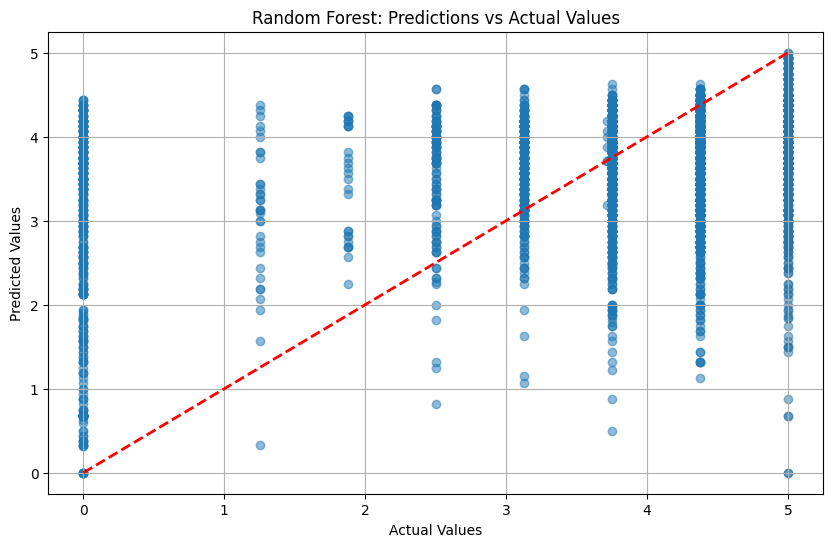
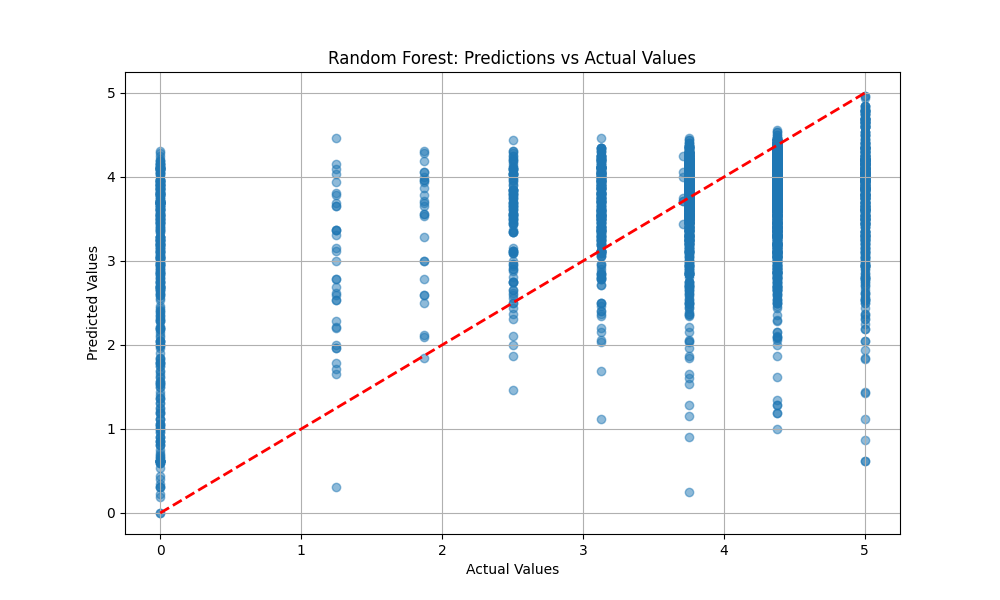
final

diff --git a/recipe_project/vectorization.py b/recipe_project/vectorization.py
@@ -7,10 +7,10 @@ Date: 16/12/2024
 
 # vectorization.py
 
-from transformers import AutoTokenizer, AutoModel
+from transformers import AutoTokenizer, AutoModel, AutoModelForSequenceClassification
 from sklearn.preprocessing import StandardScaler
-from sklearn.model_selection import train_test_split, KFold, cross_val_score
-from sklearn.metrics import mean_squared_error, r2_score, make_scorer
+from sklearn.model_selection import train_test_split, KFold
+from sklearn.metrics import mean_squared_error, r2_score
 from sklearn.linear_model import LinearRegression
 from sklearn.ensemble import RandomForestRegressor
 from sklearn.feature_extraction.text import TfidfVectorizer
@@ -114,6 +114,54 @@ def Word2Vec_vectorization(df: pandas.core.frame.DataFrame):
     return W2V_vectors
 
 
+def roberta_vectorization(device: torch.device, df: pandas.core.frame.DataFrame):
+    """Creates the BERT vectors needed for the Regression models.
+
+    Args:
+        device (torch.device): Device where the model will be runned.
+        df (pandas.core.frame.DataFrame): Dataframe to be analyzed.
+
+    Returns:
+        numpy.ndarray: Final vectors te be used in the regression models.
+    """
+    batch_size = 32
+
+    # Load tokenizer and model
+    tokenizer = AutoTokenizer.from_pretrained("distilbert-base-uncased")
+    model = AutoModelForSequenceClassification.from_pretrained(
+        "distilbert-base-uncased", num_labels=1
+    )
+    model = model.to(device)
+
+    robert_vectors = []  # Initialize predictions list
+
+    # Process in batches
+    for i in range(0, len(df), batch_size):
+        batch_texts = df["directions_pre"].iloc[i : i + batch_size].tolist()
+        inputs = tokenizer(
+            batch_texts,
+            padding=True,
+            truncation=True,
+            max_length=512,
+            return_tensors="pt",
+        )
+
+        # Move inputs to device
+        inputs = {k: v.to(device) for k, v in inputs.items()}
+
+        with torch.no_grad():
+            outputs = model(**inputs)
+            # Get regression predictions
+            batch_predictions = outputs.logits.squeeze().cpu().numpy()
+            robert_vectors.extend(batch_predictions)
+
+    # Convert to numpy array if needed
+    robert_vectors = np.array(robert_vectors)
+    print(f"Created BERT vectors with shape: {robert_vectors.shape}")
+
+    return robert_vectors.reshape(-1, 1)
+
+
 def NeuralNetwork(vectors, df: pandas.core.frame.DataFrame):
     """Creates the Neural network and visualized the result. Also creates a linear
     regression and random forest model and visualizes it. Includes cross-validation
@@ -131,14 +179,14 @@ def NeuralNetwork(vectors, df: pandas.core.frame.DataFrame):
     print("\n=== Cross-validation Evaluation ===")
     k_folds = 5
     kf = KFold(n_splits=k_folds, shuffle=True, random_state=42)
-    
+
     nn_cv_scores = []
     lr_cv_scores = []
     rf_cv_scores = []
 
     for fold, (train_idx, val_idx) in enumerate(kf.split(features_scaled)):
         print(f"\nFold {fold + 1}/{k_folds}")
-        
+
         # Split data for this fold
         X_train_cv = features_scaled[train_idx]
         X_val_cv = features_scaled[val_idx]
@@ -170,8 +218,8 @@ def NeuralNetwork(vectors, df: pandas.core.frame.DataFrame):
         for epoch in range(100):
             model_cv.train()
             for i in range(0, len(X_train_t_cv), 32):
-                batch_X = X_train_t_cv[i:i + 32]
-                batch_y = y_train_t_cv[i:i + 32]
+                batch_X = X_train_t_cv[i : i + 32]
+                batch_y = y_train_t_cv[i : i + 32]
 
                 outputs = model_cv(batch_X)
                 loss = criterion(outputs, batch_y)
@@ -206,16 +254,22 @@ def NeuralNetwork(vectors, df: pandas.core.frame.DataFrame):
 
     # Print cross-validation results
     print("\nCross-validation Results (mean ± std):")
-    print(f"Neural Network R²: {np.mean(nn_cv_scores):.4f} ± {np.std(nn_cv_scores):.4f}")
-    print(f"Linear Regression R²: {np.mean(lr_cv_scores):.4f} ± {np.std(lr_cv_scores):.4f}")
+    print(
+        f"Neural Network R²: {np.mean(nn_cv_scores):.4f} ± {np.std(nn_cv_scores):.4f}"
+    )
+    print(
+        f"Linear Regression R²: {np.mean(lr_cv_scores):.4f} ± {np.std(lr_cv_scores):.4f}"
+    )
     print(f"Random Forest R²: {np.mean(rf_cv_scores):.4f} ± {np.std(rf_cv_scores):.4f}")
 
     # Visualize cross-validation results
     plt.figure(figsize=(10, 6))
-    plt.boxplot([nn_cv_scores, lr_cv_scores, rf_cv_scores], 
-                labels=['Neural Network', 'Linear Regression', 'Random Forest'])
-    plt.title('Cross-validation R² Scores Across Models')
-    plt.ylabel('R² Score')
+    plt.boxplot(
+        [nn_cv_scores, lr_cv_scores, rf_cv_scores],
+        labels=["Neural Network", "Linear Regression", "Random Forest"],
+    )
+    plt.title("Cross-validation R² Scores Across Models")
+    plt.ylabel("R² Score")
     plt.grid(True)
     plt.show()
 
@@ -262,8 +316,8 @@ def NeuralNetwork(vectors, df: pandas.core.frame.DataFrame):
         num_batches = 0
 
         for i in range(0, len(X_train_t), batch_size):
-            batch_X = X_train_t[i:i + batch_size]
-            batch_y = y_train_t[i:i + batch_size]
+            batch_X = X_train_t[i : i + batch_size]
+            batch_y = y_train_t[i : i + batch_size]
 
             outputs = model_ML(batch_X)
             loss = criterion(outputs, batch_y)
@@ -336,15 +390,25 @@ def NeuralNetwork(vectors, df: pandas.core.frame.DataFrame):
 
     # Predictions vs Actuals
     ax3.scatter(y_test_t.numpy(), test_predictions.numpy(), alpha=0.5)
-    ax3.plot([y_test_t.min(), y_test_t.max()], [y_test_t.min(), y_test_t.max()], "r--", lw=2)
+    ax3.plot(
+        [y_test_t.min(), y_test_t.max()], [y_test_t.min(), y_test_t.max()], "r--", lw=2
+    )
     ax3.set_title("Predictions vs Actual Values")
     ax3.set_xlabel("Actual Values")
     ax3.set_ylabel("Predicted Values")
     ax3.grid(True)
 
     # Distribution Plot
-    ax4.hist(y_test_t.numpy().flatten(), bins=30, alpha=0.5, label="Actual", density=True)
-    ax4.hist(test_predictions.numpy().flatten(), bins=30, alpha=0.5, label="Predicted", density=True)
+    ax4.hist(
+        y_test_t.numpy().flatten(), bins=30, alpha=0.5, label="Actual", density=True
+    )
+    ax4.hist(
+        test_predictions.numpy().flatten(),
+        bins=30,
+        alpha=0.5,
+        label="Predicted",
+        density=True,
+    )
     ax4.set_title("Distribution of Actual vs Predicted Values")
     ax4.set_xlabel("Values")
     ax4.set_ylabel("Density")
@@ -391,6 +455,7 @@ def NeuralNetwork(vectors, df: pandas.core.frame.DataFrame):
     plt.ylabel("Predicted Values")
     plt.grid(True)
     plt.show()
+
 
 # def NeuralNetwork(vectors, df: pandas.core.frame.DataFrame):
 #     """Creates the Neural network and visualized the result. Also creates a linear
@@ -600,17 +665,17 @@ def NeuralNetwork(vectors, df: pandas.core.frame.DataFrame):
 #     plt.grid(True)
 #     plt.show()
 
-    # Validation
-    # K-Fold Cross-Validation
-    # k = 5
-    # kf = KFold(n_splits=k, shuffle=True, random_state=42)
+# Validation
+# K-Fold Cross-Validation
+# k = 5
+# kf = KFold(n_splits=k, shuffle=True, random_state=42)
 
-    # Scoring Metric (e.g., RMSE)
-    # scoring = make_scorer(mean_squared_error, greater_is_better=False)  # RMSE will be negative
+# Scoring Metric (e.g., RMSE)
+# scoring = make_scorer(mean_squared_error, greater_is_better=False)  # RMSE will be negative
 
-    # Perform Cross-Validation
-    # cv_scores = cross_val_score(model_ML, features_scaled, targets, cv=kf, scoring=scoring)
+# Perform Cross-Validation
+# cv_scores = cross_val_score(model_ML, features_scaled, targets, cv=kf, scoring=scoring)
 
-    # Display Results
-    # print("Cross-Validation RMSE scores:", np.sqrt(-cv_scores))
-    # print("Average RMSE:", np.mean(np.sqrt(-cv_scores)))
+# Display Results
+# print("Cross-Validation RMSE scores:", np.sqrt(-cv_scores))
+# print("Average RMSE:", np.mean(np.sqrt(-cv_scores)))

diff --git a/main.py b/main.py
@@ -37,7 +37,7 @@ def main():
 
     print(" ")
     print("2. Analyzing dataframe")
-    # recipe_project.visualization.visualize(df)
+    recipe_project.visualization.visualize(df)
 
     print(" ")
     print("3. Applying NLT Pipeline")
@@ -68,6 +68,11 @@ def main():
     recipe_project.vectorization.NeuralNetwork(vectors_bert, df)
     recipe_project.vectorization.NeuralNetwork(vectors_TF, df)
     recipe_project.vectorization.NeuralNetwork(vectors_W2V, df)
+
+    print("")
+    print("6. Hugging Face model - RoBERTa")
+    vectors_roberta = recipe_project.vectorization.roberta_vectorization(device, df)
+    recipe_project.vectorization.NeuralNetwork(vectors_roberta, df)
 
 
 if __name__ == "__main__":
